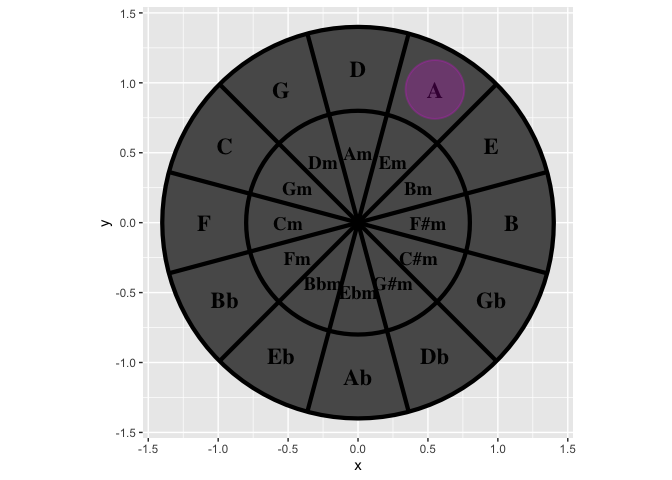
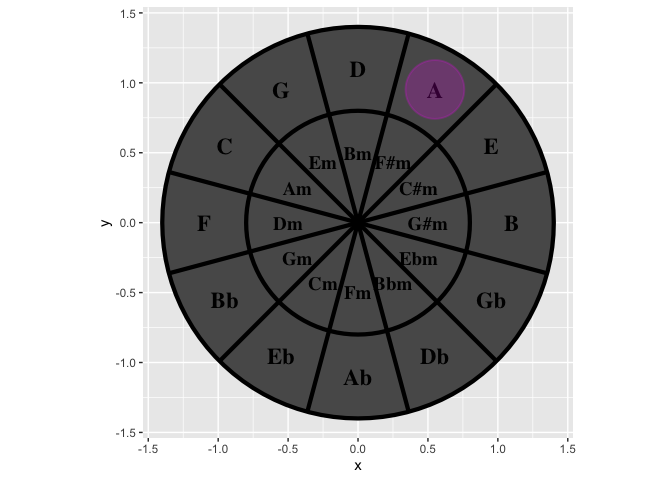
using ggtemp to draft a circle of fifths proof of concept.  create_layer_temp is not as flexible as it would be nice to have

diff --git a/README.md b/README.md
@@ -60,20 +60,34 @@ The goal of {ggcircleof5ths} is to make … easier.
 Without the package, we live in the effort-ful world that follows 🏋:
 
 ``` r
-wrap_vector <- function(x, start){
-  
-  len <- length(x)
-  start_index <- which(start == x)
-  
-  c(x[start_index:len], x[1:(start_index-1)])
-  
-}
-
 
 major = c("C", "G", "D", "A", "E", "B",
             "Gb","Db", "Ab", "Eb", "Bb", "F")
 minor = c("Am", "Em", "Bm", "F#m", "C#m", "G#m", "Ebm",
             "Bbm", "Fm", "Cm", "Gm", "Dm")
+
+
+get_key_index <-function(key){
+  
+  if(key %in% major){key_index <- which(major == key)}
+  if(key %in% minor){key_index <- which(minor == key)}
+  key_index
+  
+} 
+
+get_key_index(key = "D")
+#> [1] 3
+
+
+wrap_vector <- function(x, key){
+  
+  len <- length(x)
+  start_index <- get_key_index(key)
+  
+  c(x[start_index:len], x[1:(start_index-1)])
+  
+}
+
 
 
 spot = 1:12
@@ -86,7 +100,7 @@ ggcanvas() +
              size = 6) +
   stamp_circle(radius = .8,x0 = 0, y0 = 0) +
   stamp_text(xy = pos_polygon(n = 12, radius = .5),
-             label = minor,
+             label = wrap_vector(minor, "D"),
              size = 5) +
   stamp_spoke(radius = 1.4, x0 = 0, y0 = 0,
               angle = pi*1:12/6 +
@@ -98,6 +112,148 @@ ggcanvas() +
 ```
 
 ![](README_files/figure-gfm/unnamed-chunk-2-1.png)<!-- -->
+
+``` r
+library(tidyverse)
+#> ── Attaching core tidyverse packages ─────────────────── tidyverse 2.0.0.9000 ──
+#> ✔ dplyr     1.1.0          ✔ readr     2.1.4     
+#> ✔ forcats   1.0.0          ✔ stringr   1.5.0     
+#> ✔ ggplot2   3.4.4.9000     ✔ tibble    3.2.1     
+#> ✔ lubridate 1.9.2          ✔ tidyr     1.3.0     
+#> ✔ purrr     1.0.1          
+#> ── Conflicts ────────────────────────────────────────── tidyverse_conflicts() ──
+#> ✖ dplyr::filter() masks stats::filter()
+#> ✖ dplyr::lag()    masks stats::lag()
+#> ℹ Use the conflicted package (<http://conflicted.r-lib.org/>) to force all conflicts to become errors
+compute_panel_circle <- function(data, scales, n = 15){
+  
+  data |> 
+    mutate(group = row_number()) |> 
+    crossing(tibble(z = 0:n)) |>
+    mutate(around = 2*pi*z/max(z)) |> 
+    mutate(x = x0 + cos(around)*r,
+           y = y0 + sin(around)*r) 
+  
+}
+
+geom_circle <- function(...){
+  
+  ggtemp:::define_layer_temp(
+    required_aes = c("x0", "y0", "r"),
+    compute_panel = compute_panel_circle,
+    geom = ggplot2::GeomPath,
+    ...)
+  
+}
+
+library(ggplot2)
+data.frame(x0 = 0:1, y0 = 0:1, r = 1:2/3) |>
+  ggplot() +
+  aes(x0 = x0, y0 = y0, r = r) +
+  geom_circle() +
+  aes(fill = r)
+```
+
+![](README_files/figure-gfm/unnamed-chunk-3-1.png)<!-- -->
+
+``` r
+compute_panel_circle5ths <- function(data, scales, n_vertices = 12, maj = TRUE, key = "C", rotate = 0){
+  
+  data |> 
+    mutate(group = row_number()) |> 
+    crossing(tibble(z = 0:n_vertices)) |>
+    mutate(around = 2*pi*z/max(z) + rotate/180*pi) |> 
+    mutate(xend = x0, yend = y0) |>
+    mutate(x = x0 + cos(around)*r,
+           y = y0 + sin(around)*r)
+  
+}
+
+
+compute_group_spokes_labs <- function(data, scales, maj = T, key = "C", rotate = 0){
+  
+    major = c("C", "G", "D", "A", "E", "B",
+            "Gb","Db", "Ab", "Eb", "Bb", "F")
+  minor = c("Am", "Em", "Bm", "F#m", "C#m", "G#m", "Ebm",
+            "Bbm", "Fm", "Cm", "Gm", "Dm")
+  
+    if(maj){label <- major}else{label <- minor}
+
+  
+  compute_panel_circle5ths(data = data, scales = scales, maj = maj, key = key, rotate = rotate) |>
+    slice(-1) |>
+    mutate(major = major) |>
+    mutate(minor = minor) |>
+    mutate(label = label)
+  
+  
+}
+
+
+compute_group_chord_highlight <- function(data, scales, maj = T, key = "C", rotate = rotate){
+  
+  
+  compute_group_spokes_labs(data = data, scales = scales, maj = maj, key = key) |>
+    filter(major == chord | minor == chord)
+  
+  
+}
+
+
+ggtemp:::create_layer_temp("geom_circle",
+    required_aes = c("x0", "y0", "r"),
+    compute_panel = compute_panel_circle5ths,
+    geom = ggplot2::GeomPath)
+
+ggtemp:::create_layer_temp("geom_spoke",
+    required_aes = c("x0", "y0", "r"),
+    compute_group = compute_group_spokes_labs,
+    geom = ggplot2::GeomSegment)
+
+ggtemp:::create_layer_temp("geom_labs",
+    required_aes = c("x0", "y0", "r"),
+    compute_group = compute_group_spokes_labs,
+    geom = ggplot2::GeomText)
+
+ggtemp:::create_layer_temp("geom_chord_highlight",
+    required_aes = c("x0", "y0", "r", "chord"),
+    compute_group = compute_group_chord_highlight,
+    geom = ggplot2::GeomPoint)
+
+
+library(ggplot2)
+library(ggstamp)
+ggcanvas() +
+  aes(x0 = 0, y0 = 0, r = 1, chord = "C") +
+  geom_circle(n_vertices = 50) +
+  geom_circle(n_vertices = 50, aes(r = .6)) +
+  geom_spoke(rotate = 90/6) +
+  geom_labs(maj = T, aes(r = .8)) + 
+  geom_labs(maj = F, aes(r = .4)) +
+  geom_chord_highlight(aes(r = .8), size = 12, color = "red", alpha = .2)
+```
+
+![](README_files/figure-gfm/unnamed-chunk-4-1.png)<!-- -->
+
+``` r
+
+
+
+tibble(phrase = 1:7, chord = LETTERS[1:7]) |>
+  ggplot() + 
+    aes(x0 = 0, y0 = 0, r = 1, chord = chord) + 
+    geom_circle(n_vertices = 50) +
+  geom_circle(n_vertices = 50, aes(r = .6)) +
+  geom_spoke(rotate = 90/6) +
+  geom_labs(maj = T, aes(r = .8)) + 
+  geom_labs(maj = F, aes(r = .4), size = 2) +
+  geom_chord_highlight(aes(r = .8), size = 12, color = "red", alpha = .2) + 
+  coord_equal() +
+  facet_wrap(facet = vars(phrase), nrow = 2) +
+  labs(title = "An unusual chord progression, A to G in Alphabet")
+```
+
+![](README_files/figure-gfm/unnamed-chunk-4-2.png)<!-- -->
 
 With the {xxxx} package, we’ll live in a different world (🦄 🦄 🦄) where
 the task is a snap 🫰:
@@ -112,7 +268,7 @@ df_chords_lyrics |>
  ggplot() + 
  aes(chords = chords) + 
  facet_wrap(vars = fct_inorder(lyrics)) +
- geom_cof()
+ geom_circle5ths(key = "D", r = .5)
 ```
 
 # Part I. Work out functionality ✅
@@ -270,8 +426,8 @@ all[11:17]
 #> [3] "[1] stats     graphics  grDevices utils     datasets  methods   base     "
 #> [4] ""                                                                         
 #> [5] "other attached packages:"                                                 
-#> [6] "[1] ggstamp_0.0.0.9000"                                                   
-#> [7] ""
+#> [6] " [1] lubridate_1.9.2      forcats_1.0.0        stringr_1.5.0       "      
+#> [7] " [4] dplyr_1.1.0          purrr_1.0.1          readr_2.1.4         "
 ```
 
 ## `devtools::check()` report
